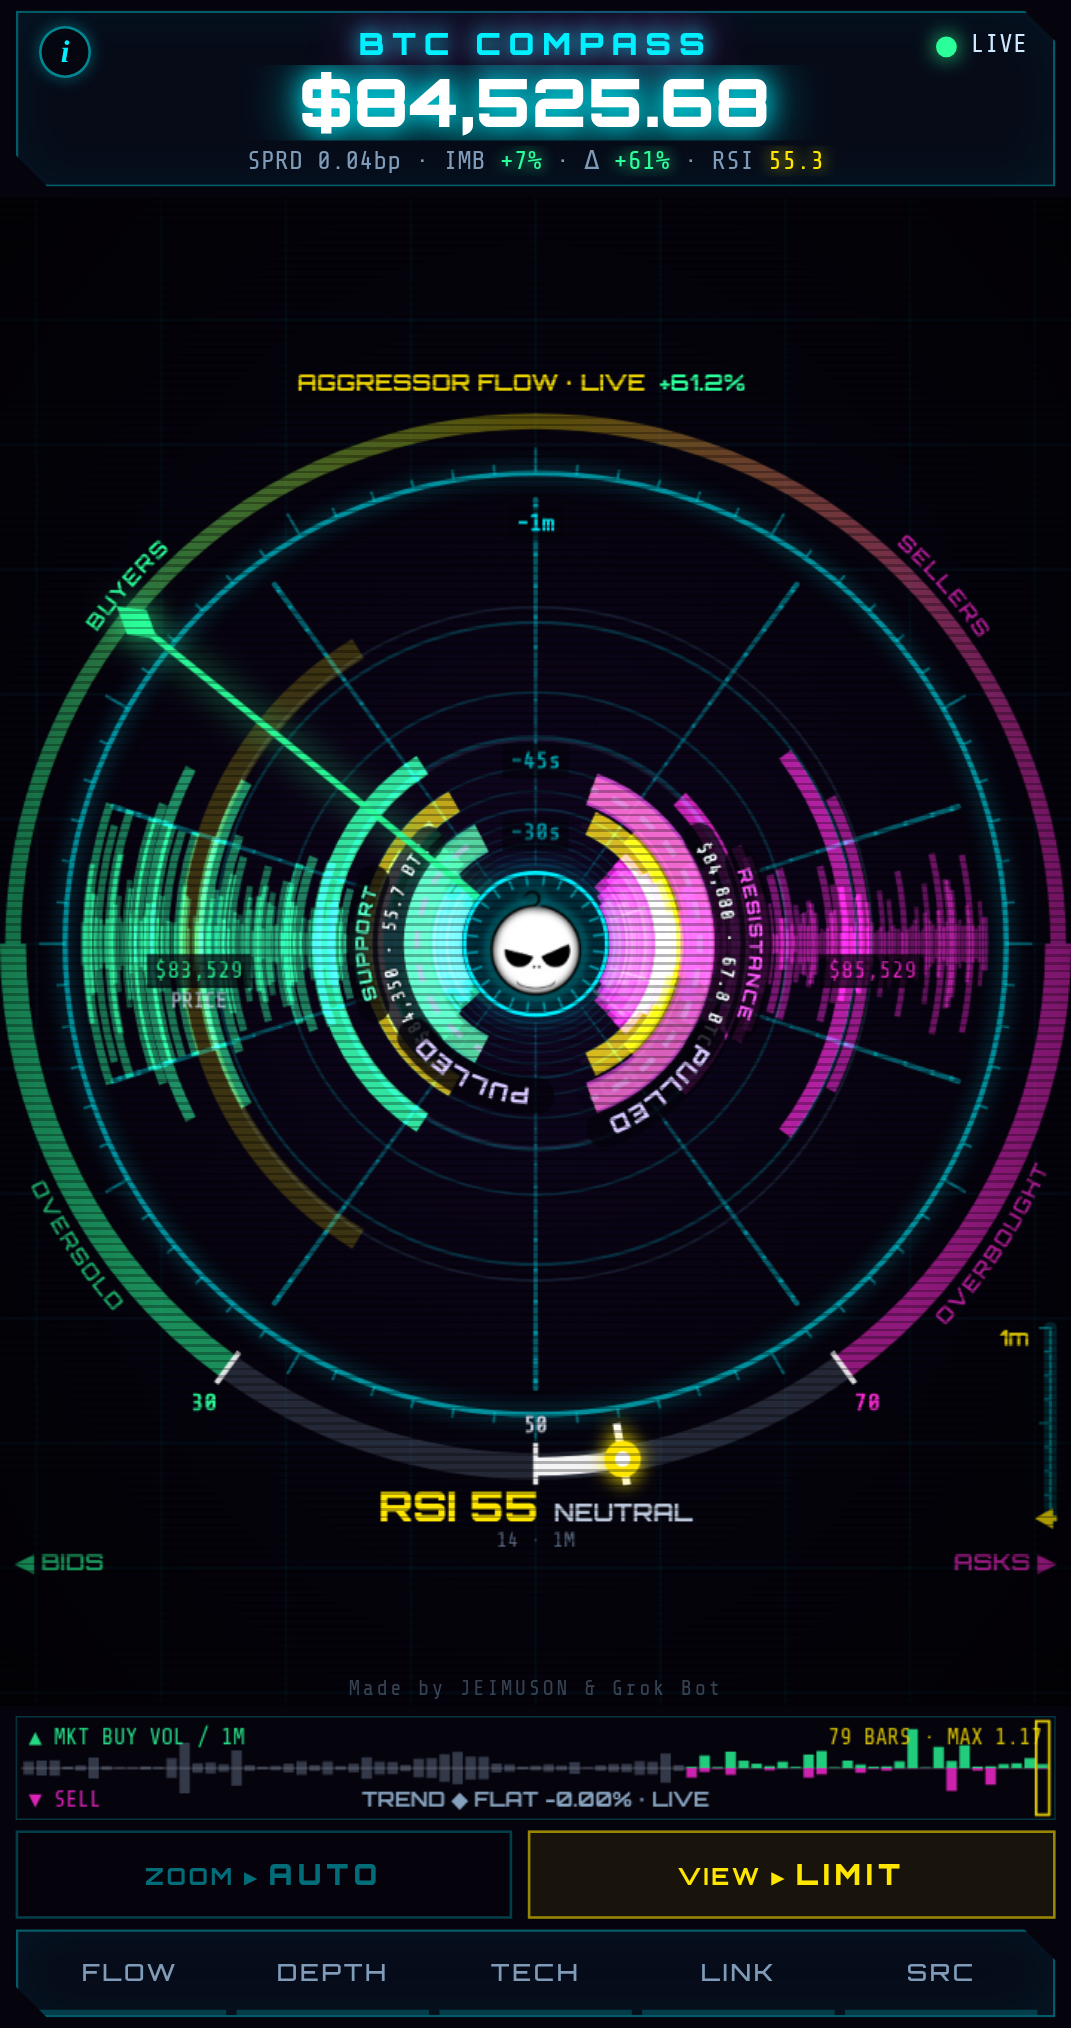
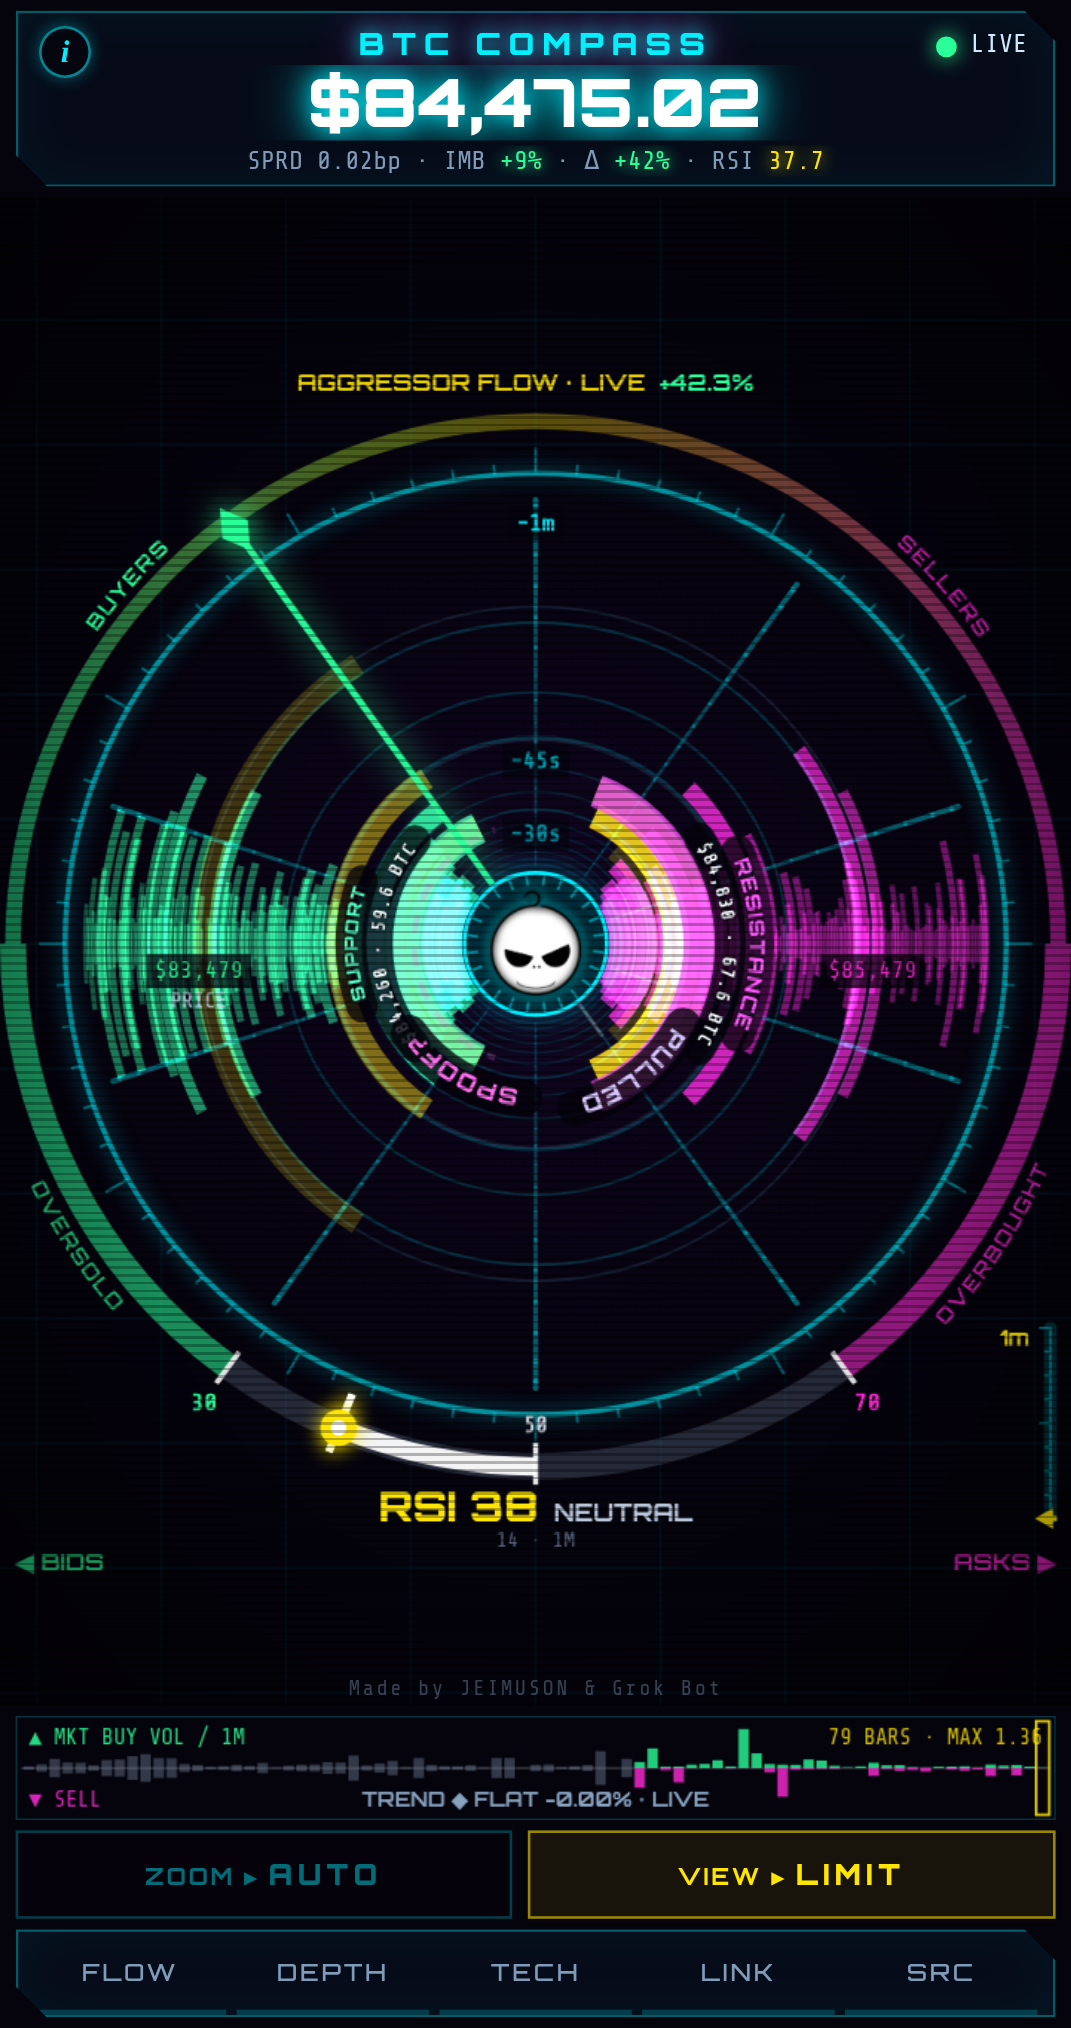
MARKET ghost walls: visible lines + edge chevrons (build 20261002-1911)

diff --git a/index.html b/index.html
@@ -3,7 +3,7 @@
 <head>
 <meta charset="utf-8">
 <meta http-equiv="Cache-Control" content="no-cache, no-store, must-revalidate"><meta http-equiv="Pragma" content="no-cache"><meta http-equiv="Expires" content="0">
-<script>window.OFC_BUILD='20261002-1852';(function(){try{if(!/^https?:/.test(location.protocol))return;fetch(location.pathname+'?_='+Date.now(),{cache:'no-store'}).then(r=>r.text()).then(t=>{const m=t.match(/OFC_BUILD='([^']+)'/);if(m&&m[1]!==window.OFC_BUILD&&sessionStorage.getItem('ofcB')!==m[1]){sessionStorage.setItem('ofcB',m[1]);location.replace(location.pathname+'?v='+m[1]+location.hash);}}).catch(()=>{});}catch(e){}})();</script>
+<script>window.OFC_BUILD='20261002-1911';(function(){try{if(!/^https?:/.test(location.protocol))return;fetch(location.pathname+'?_='+Date.now(),{cache:'no-store'}).then(r=>r.text()).then(t=>{const m=t.match(/OFC_BUILD='([^']+)'/);if(m&&m[1]!==window.OFC_BUILD&&sessionStorage.getItem('ofcB')!==m[1]){sessionStorage.setItem('ofcB',m[1]);location.replace(location.pathname+'?v='+m[1]+location.hash);}}).catch(()=>{});}catch(e){}})();</script>
 <meta name="viewport" content="width=device-width,initial-scale=1,viewport-fit=cover,user-scalable=no">
 <meta name="theme-color" content="#05030c">
 <meta name="color-scheme" content="dark">
@@ -165,7 +165,7 @@ body.hublogo #top .logo{display:none}   /* mobile: logo lives in the compass hub
  <li>Trail swings <b>out</b> = price up, <b>in</b> = price down.</li>
  <li><b class="gr">Green</b> = buyers, <b class="rd">red</b> = sellers. Thicker trail = more volume.</li>
  <li><b>Flares</b> mark the spots with the heaviest trading.</li>
- <li>Faint <b>ghost arcs</b> = the biggest limit walls, drawn where trades at their price would land. They flare when hit, flash when eaten, go dashed when pulled.</li></ul>
+ <li><b>Ghost walls</b> = the biggest limit walls: glowing lines where trades at their price would land, or edge chevrons (top = above, bottom = below, with % distance) when outside the scale. They flare when hit, flash when eaten, go dashed when pulled.</li></ul>
  <h3>LIMIT VIEW · ORDER-BOOK WALLS</h3>
  <ul><li>Arcs are <b>walls</b> of waiting orders: <b class="gr">buyers left</b>, <b class="rd">sellers right</b>.</li>
  <li>Distance from the middle = distance from the current price.</li>
@@ -1486,28 +1486,52 @@ function drawTrail(now){
   // Trades at the price -> flare; EATEN (classifier) -> short break flash; PULLED -> fades out as a dashed ghost.
   if(BREADY&&sortedB.length&&sortedA.length){const tN=performance.now(),dnow=Date.now(),tol=BUCK/2+mid*0.00002;let maxq=1e-9;for(const L of [sortedB,sortedA])for(const x of L)if(x[1]>maxq)maxq=x[1];
     const sT0=FOCAL/(FOCAL+TURN*DZ),L0=Math.max(2,0.55*RMAX*KO*(1-sT0)),vis=X=>Math.abs((X-P0)/BSP*RMAX*KO*0.22/L0),live=new Set(),dt=GWT?Math.min(0.1,(tN-GWT)/1000):0;GWT=tN;
-    for(const [side,lv] of [['bid',sortedB],['ask',sortedA]])for(const [px,q] of topBySize(lv,3)){if(q<0.25*maxq)continue;const k=side+'|'+px;live.add(k);
-      let G=GWS.get(k);if(!G){G={side,px,q,a:0,fl:0,br:-1e9,pull:-1e9,evT:tN};GWS.set(k,G);}G.q=q;}
+    // top 3 per side >= 25% of the biggest level; each side's biggest wall always kept so every side is represented
+    for(const [side,lv] of [['bid',sortedB],['ask',sortedA]])topBySize(lv,3).forEach(([px,q],i)=>{if(i>0&&q<0.25*maxq)return;const k=side+'|'+px;live.add(k);
+      let G=GWS.get(k);if(!G){G={side,px,q,a:0,fl:0,br:-1e9,pull:-1e9,evT:tN};GWS.set(k,G);}G.q=q;});
     for(const o of SPF.ev){if(o.kind!=='eaten'&&o.kind!=='pulled')continue;const G=GWS.get(o.side+'|'+o.px);if(G&&o.tt>G.evT){G.evT=o.tt;if(o.kind==='eaten')G.br=o.tt;else G.pull=o.tt;}}
-    const A2=Math.max(2,Math.min(AMAX,MWIN*0.5)),NC=8;
+    const A2=Math.max(2,Math.min(AMAX,MWIN*0.5)),NC=8,sc=Math.max(1,RMAX/380),EDG={bid:[],ask:[]};
     for(const [k,G] of GWS){const on=live.has(k),pulled=tN-G.pull<3000,brk=tN-G.br<800;
       G.a+=((on&&!pulled?1:0)-G.a)*(1-Math.exp(-dt/(on?0.5:pulled?1.2:0.35)));
       let hv=0;for(let i=trades.length-1;i>=0;i--){const t=trades[i];if(t.t<dnow-1200)break;if((G.side==='bid'?t.side==='sell':t.side==='buy')&&Math.abs(t.px-G.px)<=tol)hv+=t.qty;}
       const ft=Math.min(1,hv/(0.08*G.q+1e-9));G.fl+=(ft-G.fl)*(ft>G.fl?0.35:1-Math.exp(-dt/0.6));
       if(!on&&G.a<0.01&&!brk&&!pulled){GWS.delete(k);continue;}
-      const v=vis(G.px),va=Math.max(0,Math.min(1,(1.3-v)/0.3));G.v=v;G.A=0;if(va<=0)continue;
+      const v=vis(G.px),va=Math.max(0,Math.min(1,(1.3-v)/0.3));G.v=v;G.A=0;G.E=0;
       const rel=Math.sqrt(Math.min(1,G.q/maxq)),bu=brk?1-(tN-G.br)/800:0,c=G.side==='bid'?COL.bid:COL.ask;
-      const A=va*Math.max(G.a,pulled?Math.max(0,1-(tN-G.pull)/3000):0,bu);G.A=A;if(A<=0.01)continue;
+      const A0=Math.max(G.a,pulled?Math.max(0,1-(tN-G.pull)/3000):0,bu),pd=pulled&&!on;
+      const col=pd?[215,200,255]:brk?[Math.min(255,c[0]+110),Math.min(255,c[1]+110),Math.min(255,c[2]+110)]:c;
+      if(va<1&&A0>0.01)EDG[(G.px>=P0)?'ask':'bid'].push({G,A:A0*(1-va),rel,bu,pd,col,c});   // outside the scale -> clamped edge chevron
+      const A=va*A0;G.A=A;if(A<=0.01)continue;
       const pts=[];for(let f=0;f<=A2+1e-6;f+=0.5)pts.push([f,pt(f,G.px)]);
       ctx.save();ctx.lineCap='round';
-      if(pulled&&!on){ctx.setLineDash([6,6]);ctx.lineDashOffset=-tN/45;}else if(brk){ctx.setLineDash([10*(1-bu)+3,7+12*(1-bu)]);}
-      const col=pulled&&!on?[215,200,255]:brk?[Math.min(255,c[0]+110),Math.min(255,c[1]+110),Math.min(255,c[2]+110)]:c;
-      ctx.lineWidth=(1+3*rel+4*G.fl+6*bu)*Math.max(0.8,RMAX/400);
-      if(Q>0&&(G.fl>0.15||bu>0)){ctx.shadowColor=rgba(c,1);ctx.shadowBlur=10+18*Math.max(G.fl,bu);}
-      for(let ci=0;ci<NC;ci++){const i0=Math.floor(ci*(pts.length-1)/NC),i1=Math.floor((ci+1)*(pts.length-1)/NC);if(i1<=i0)continue;const fm=pts[(i0+i1)>>1][0],um=pts[(i0+i1)>>1][1].u;
-        const al=A*(0.09+0.13*rel+0.5*G.fl+0.6*bu)*Math.pow(um,0.8)*Math.pow(Math.max(0,1-fm/A2),0.7);if(al<=0.004)continue;
-        ctx.strokeStyle=rgba(col,Math.min(0.9,al).toFixed(3));ctx.beginPath();ctx.moveTo(pts[i0][1].x,pts[i0][1].y);for(let i=i0+1;i<=i1;i++)ctx.lineTo(pts[i][1].x,pts[i][1].y);ctx.stroke();}
+      if(pd){ctx.setLineDash([6*sc,6*sc]);ctx.lineDashOffset=-tN/45;}else if(brk){ctx.setLineDash([10*(1-bu)+3,7+12*(1-bu)]);}
+      const lw=Math.max(2,(1.5+3*rel+4*G.fl+6*bu)*sc);
+      for(const [wm,am,gl] of [[3.2,0.22,0],[1,1,1]]){ctx.lineWidth=lw*wm;   // soft glow band, then the core line
+        if(gl&&Q>0){ctx.shadowColor=rgba(c,0.9);ctx.shadowBlur=(6+18*Math.max(G.fl,bu))*sc;}
+        for(let ci=0;ci<NC;ci++){const i0=Math.floor(ci*(pts.length-1)/NC),i1=Math.floor((ci+1)*(pts.length-1)/NC);if(i1<=i0)continue;const fm=pts[(i0+i1)>>1][0],um=pts[(i0+i1)>>1][1].u;
+          const al=am*A*(0.3+0.3*rel+0.45*G.fl+0.6*bu)*Math.pow(um,0.5)*Math.pow(Math.max(0,1-fm/A2),0.45);if(al<=0.004)continue;
+          ctx.strokeStyle=rgba(col,Math.min(0.95,al).toFixed(3));ctx.beginPath();ctx.moveTo(pts[i0][1].x,pts[i0][1].y);for(let i=i0+1;i<=i1;i++)ctx.lineTo(pts[i][1].x,pts[i][1].y);ctx.stroke();}}
+      {const ti=Math.min(pts.length-1,Math.max(1,Math.round(pts.length*0.18))),p=pts[ti][1];   // small size tag on the line
+        ctx.setLineDash([]);ctx.shadowBlur=0;ctx.font=`${Math.round(9*sc)}px "Share Tech Mono",monospace`;ctx.textAlign='center';ctx.textBaseline='middle';
+        ctx.fillStyle=rgba(col,Math.min(0.85,A*(0.55+0.3*rel+0.3*G.fl)).toFixed(3));ctx.fillText(fmtUSD(G.q*G.px),p.x,p.y-8*sc);}
       ctx.restore();}
+    // clamped edge indicators: walls beyond the scale sit as glowing chevrons just inside the outer ring,
+    // asks/above-price at the top edge (right of NOW), bids/below-price at the bottom edge; nearest first; brightness falls with distance
+    for(const sd of ['ask','bid']){const L=EDG[sd].sort((a,b)=>Math.abs(a.G.px-P0)-Math.abs(b.G.px-P0)),up=sd==='ask',step=Math.max(0.075,28/RMAX),a0=Math.max(0.16,36/RMAX);
+      L.forEach((o,k)=>{const {G,rel,bu,pd,col,c}=o,d=(G.px-P0)/P0*100,ad=Math.abs(d),fall=0.5+0.5*Math.exp(-ad/0.8);
+        const al=Math.min(1,o.A*(0.55+0.35*rel+0.5*G.fl+0.6*bu)*fall*(k===0?1:0.8));G.E=+al.toFixed(2);if(al<0.02)return;
+        const th=up?-Math.PI/2+a0+step*k:Math.PI/2+a0+step*k,nx=Math.cos(th),ny=Math.sin(th),tx=-ny,ty=nx,r=RMAX*0.95,cx=CX+nx*r,cy=CY+ny*r;
+        const sz=(5+5*rel+4*G.fl+5*bu)*sc;
+        ctx.save();if(Q>0){ctx.shadowColor=rgba(c,0.95);ctx.shadowBlur=(8+16*Math.max(G.fl,bu))*sc;}
+        const P=(a,b)=>[cx+nx*a+tx*b,cy+ny*a+ty*b],T=P(sz,0),W1=P(-sz*0.45,sz*0.95),N=P(-sz*0.05,0),W2=P(-sz*0.45,-sz*0.95);
+        const path=()=>{ctx.beginPath();ctx.moveTo(...T);ctx.lineTo(...W1);ctx.lineTo(...N);ctx.lineTo(...W2);ctx.closePath();};
+        if(pd){ctx.setLineDash([3*sc,3*sc]);ctx.lineWidth=1.4*sc;ctx.strokeStyle=rgba(col,al.toFixed(3));path();ctx.stroke();}
+        else{ctx.fillStyle=rgba(col,(al*0.85).toFixed(3));path();ctx.fill();ctx.lineWidth=1*sc;ctx.strokeStyle=rgba([Math.min(255,col[0]+70),Math.min(255,col[1]+70),Math.min(255,col[2]+70)],al.toFixed(3));ctx.stroke();}
+        if(bu>0){ctx.lineWidth=2*sc;ctx.strokeStyle=rgba([255,255,255],(bu*0.8).toFixed(3));ctx.beginPath();ctx.arc(cx,cy,sz*(1.2+1.6*(1-bu)),0,Math.PI*2);ctx.stroke();}
+        if(k===0||RMAX>250){ctx.shadowBlur=0;ctx.font=`${Math.round(9*sc)}px "Share Tech Mono",monospace`;ctx.textAlign='center';ctx.textBaseline='middle';
+          const txt=(d>=0?'+':'\u2212')+ad.toFixed(ad<1?2:1)+'%'+(RMAX>250?' '+fmtUSD(G.q*G.px):''),tp=P(-(5+5*rel)*sc-9*sc-k*11*sc,0);
+          ctx.fillStyle=rgba(col,Math.min(0.95,al+0.1).toFixed(3));ctx.fillText(txt,tp[0],tp[1]);}
+        ctx.restore();});}
   }
   // centreline spine: thin continuous track that fades into the vanishing point
   ctx.lineWidth=1;
@@ -1740,7 +1764,7 @@ function frame(){
 connect();seedREST();
 requestAnimationFrame(frame);
 document.addEventListener('visibilitychange',()=>{if(!document.hidden&&(!ws||ws.readyState>1)){backoff=1000;connect();}});
-window.__ofc={get gw(){return [...GWS.values()].map(G=>({s:G.side,px:G.px,a:+G.a.toFixed(2),fl:+G.fl.toFixed(2),br:performance.now()-G.br<800,pull:performance.now()-G.pull<3000,v:+(G.v||0).toFixed(2),A:+(G.A||0).toFixed(2)}))},simEat(ms,kind,hold,px){EAT={t0:Date.now(),ms,kind:kind||'eat',hold:hold==null?0:hold,px:px||0,q0:0,lq:null};},get spoof(){return {n:{...SPF.n},trk:SPF.trk.size,ev:SPF.ev.slice(-6).map(o=>({k:o.kind,s:o.side,px:o.px,q0:+o.q0.toFixed(1),q1:+o.q1.toFixed(1),ratio:o.ratio,spoof:o.spoof,big:o.big,ven:o.ven}))}},get eat(){const n=performance.now();return EAT&&{px:EAT.px,q0:EAT.q0,ref:REFQ,cp:history.filter((h,i)=>i%8===0&&(n-h.t)/1000<=LWIN).map(h=>{const e=h.b.find(x=>x[0]===EAT.px);return e?[Math.round((n-h.t)/1000),+levelSpan(e[1],REFQ||h.maxq).toFixed(3)]:null;}).filter(Boolean)}},get mt(){return {w:+MT.w.toFixed(1),q:+MT.q.toFixed(2),z:+MT.z.toFixed(2),sg:MT.sg,burst:burst.on}},get lt(){return {w:+LT.w.toFixed(1),rho:+LT.rho.toFixed(2),lwin:+LWIN.toFixed(1),burst:burst.on}},get keyWalls(){return VIEW==='limit'?{...KEYW,nSig:{bid:topWalls.bid.length,ask:topWalls.ask.length},marks:PLBL.map(q=>q.txt)}:null},simFlat(){SIM={on:true,base:mid,t0:0,dir:0,amp:0,ramp:1};},simMove(dir,frac,ramp){SIM.t0=Date.now();SIM.dir=dir;SIM.amp=frac*SIM.base;SIM.ramp=ramp;},get resp(){const v=proj(HIST_SEC),m=proj(HIST_SEC*0.4);return {tw:+(TWIST_MAX*VSP.w*180/Math.PI).toFixed(2),vp:+(v.y-CY).toFixed(1),vm:+(m.y-CY).toFixed(1),o3:+((window.__ofcR||{}).o3||0).toFixed(1),o8:+((window.__ofcR||{}).o8||0).toFixed(1),mw:+MWIN.toFixed(1),dr:dispRange,pr:pathRef}},get bp(){return BP.length},autoOff(){pillT=0;if(rangeAuto)pillTap();},get dr(){return dispRange},get hubLogo(){return !WIDE&&LOGO.complete&&LOGO.naturalWidth>0},get hdrLogo(){const e=document.querySelector('#top .logo');return !!e&&getComputedStyle(e).display!=='none'},get flares(){return VIEW==='market'?[...FLR.entries()].map(([k,F])=>{const p=F.dx!=null?{x:F.dx,y:F.dy}:null;return {k,T:F.T,tT:trailT,st:trailStep,w:+F.w.toFixed(2),on:!!F.on,side:F.c===COL.bid?'bid':'ask',x:p?Math.round(p.x):null,y:p?Math.round(p.y):null};}):null},winTo(S){intro=null;setAuto(false);syncZA();let lo=0,hi=1;const f=u=>mWinOf(zR(u));const dec=f(0)>f(1);for(let i=0;i<40;i++){const m=(lo+hi)/2;if((f(m)>S)===dec)lo=m;else hi=m;}rangeFrac=zR((lo+hi)/2);return f((lo+hi)/2);},get vring(){if(VIEW!=='market')return null;const p=proj(HIST_SEC);return {full:+(RMAX*p.s).toFixed(1),r:+(RMAX*p.s).toFixed(1),x:Math.round(p.x),y:Math.round(p.y),R0:Math.round(R0)}},get twist(){return VIEW==='market'?+(TWIST_MAX*VSP.w*180/Math.PI).toFixed(1):0},get spin(){return {w:+VSP.w.toFixed(3),ph:+VSP.ph.toFixed(3)}},zManual(){intro=null;setAuto(false);syncZA();},get burst(){return {...burst,now:Date.now()}},simBurst(usd){const px=trades.length?trades[trades.length-1].px:mid,n=Date.now();for(let k=0;k<8;k++)trades.push({t:n-(7-k)*300,side:k%2?'sell':'buy',qty:usd/8/px,px,v:'kraken'});trailDirty=true;},get auto(){return rangeAuto},zAuto(){intro=null;setAuto(true);syncZA();},zIn(){intro=null;setAuto(false);rangeFrac=zR(1);syncZA();},get mwin(){return +MWIN.toFixed(1)},get lwin(){return +LWIN.toFixed(1)},get prange(){return PRANGE},get disp(){return dispRange},get plbl(){return PLBL.map(q=>q.txt)},get hubTxt(){return mid?hubTxt():null},get head(){return {x:Math.round(TRHEAD.x),y:Math.round(TRHEAD.y),CX,CY,R0:Math.round(R0),RMAX:Math.round(RMAX)}},get logo(){const g=logoGeom();return g&&{x:Math.round(g.x),y:Math.round(g.y),S:g.S,CX,CY,RMAX,W,H,Z:zbarGeom()}},get ven(){return Object.fromEntries(Object.entries(VEN).map(([k,v])=>[k,{st:v.st,share:+v.share.toFixed(3),books:BOOKS.filter(B=>B.v===k).map(B=>({k:B.k,ready:B.ready,n:B.b.size+B.a.size,ck:B.ckOk,ckBad:B.ckBad,resyncs:B.resyncs}))}]))},get src(){return SRC},setSource,get comb(){return {ready:BREADY,mid,bestBid,bestAsk,nb:sortedB.length,na:sortedA.length}},get raw(){return RAW.length},get flow(){const f=flow(30);return {b:Math.round(f.b),s:Math.round(f.s),r:+f.r.toFixed(3)}},get trendW(){return trendWin()},get win(){return winSec},get heatN(){return Object.fromEntries(Object.entries(HEATS).map(([w,H])=>[w,H.m.size]))},get intro(){return intro},book,get mid(){return mid},get ck(){return {ckOk,ckBad,ckLast}},get trades(){return tradeCount},get bubbles(){return bubbles.length},get hist(){return history.length},get ind(){return ind},get candles(){return candles.size},get dir(){return INBOUND?'in':'out'},get view(){return VIEW},get layout(){return {W,H,CX,CY,RMAX,R0,WIDE}},get tunnel(){const far=proj(HIST_SEC);return {FOCAL,farScale:far.s,farY:far.y-CY,dispRange,fitFrac,rangeAuto,RMAX}},zoom(f){setAuto(false);rangeFrac=Math.min(0.08,Math.max(0.0005,rangeFrac*f));},autoZoom(){setAuto(true);},get autoOn(){return rangeAuto},get zgeom(){return zbarGeom()},get conn(){return connState},get fps(){return FPS},get q(){return Q},get rc(){return reconnects},forceDrop(){ws&&ws.close();}};
+window.__ofc={get gw(){return [...GWS.values()].map(G=>({s:G.side,px:G.px,a:+G.a.toFixed(2),fl:+G.fl.toFixed(2),br:performance.now()-G.br<800,pull:performance.now()-G.pull<3000,v:+(G.v||0).toFixed(2),A:+(G.A||0).toFixed(2),E:G.E||0}))},simEat(ms,kind,hold,px){EAT={t0:Date.now(),ms,kind:kind||'eat',hold:hold==null?0:hold,px:px||0,q0:0,lq:null};},get spoof(){return {n:{...SPF.n},trk:SPF.trk.size,ev:SPF.ev.slice(-6).map(o=>({k:o.kind,s:o.side,px:o.px,q0:+o.q0.toFixed(1),q1:+o.q1.toFixed(1),ratio:o.ratio,spoof:o.spoof,big:o.big,ven:o.ven}))}},get eat(){const n=performance.now();return EAT&&{px:EAT.px,q0:EAT.q0,ref:REFQ,cp:history.filter((h,i)=>i%8===0&&(n-h.t)/1000<=LWIN).map(h=>{const e=h.b.find(x=>x[0]===EAT.px);return e?[Math.round((n-h.t)/1000),+levelSpan(e[1],REFQ||h.maxq).toFixed(3)]:null;}).filter(Boolean)}},get mt(){return {w:+MT.w.toFixed(1),q:+MT.q.toFixed(2),z:+MT.z.toFixed(2),sg:MT.sg,burst:burst.on}},get lt(){return {w:+LT.w.toFixed(1),rho:+LT.rho.toFixed(2),lwin:+LWIN.toFixed(1),burst:burst.on}},get keyWalls(){return VIEW==='limit'?{...KEYW,nSig:{bid:topWalls.bid.length,ask:topWalls.ask.length},marks:PLBL.map(q=>q.txt)}:null},simFlat(){SIM={on:true,base:mid,t0:0,dir:0,amp:0,ramp:1};},simMove(dir,frac,ramp){SIM.t0=Date.now();SIM.dir=dir;SIM.amp=frac*SIM.base;SIM.ramp=ramp;},get resp(){const v=proj(HIST_SEC),m=proj(HIST_SEC*0.4);return {tw:+(TWIST_MAX*VSP.w*180/Math.PI).toFixed(2),vp:+(v.y-CY).toFixed(1),vm:+(m.y-CY).toFixed(1),o3:+((window.__ofcR||{}).o3||0).toFixed(1),o8:+((window.__ofcR||{}).o8||0).toFixed(1),mw:+MWIN.toFixed(1),dr:dispRange,pr:pathRef}},get bp(){return BP.length},autoOff(){pillT=0;if(rangeAuto)pillTap();},get dr(){return dispRange},get hubLogo(){return !WIDE&&LOGO.complete&&LOGO.naturalWidth>0},get hdrLogo(){const e=document.querySelector('#top .logo');return !!e&&getComputedStyle(e).display!=='none'},get flares(){return VIEW==='market'?[...FLR.entries()].map(([k,F])=>{const p=F.dx!=null?{x:F.dx,y:F.dy}:null;return {k,T:F.T,tT:trailT,st:trailStep,w:+F.w.toFixed(2),on:!!F.on,side:F.c===COL.bid?'bid':'ask',x:p?Math.round(p.x):null,y:p?Math.round(p.y):null};}):null},winTo(S){intro=null;setAuto(false);syncZA();let lo=0,hi=1;const f=u=>mWinOf(zR(u));const dec=f(0)>f(1);for(let i=0;i<40;i++){const m=(lo+hi)/2;if((f(m)>S)===dec)lo=m;else hi=m;}rangeFrac=zR((lo+hi)/2);return f((lo+hi)/2);},get vring(){if(VIEW!=='market')return null;const p=proj(HIST_SEC);return {full:+(RMAX*p.s).toFixed(1),r:+(RMAX*p.s).toFixed(1),x:Math.round(p.x),y:Math.round(p.y),R0:Math.round(R0)}},get twist(){return VIEW==='market'?+(TWIST_MAX*VSP.w*180/Math.PI).toFixed(1):0},get spin(){return {w:+VSP.w.toFixed(3),ph:+VSP.ph.toFixed(3)}},zManual(){intro=null;setAuto(false);syncZA();},get burst(){return {...burst,now:Date.now()}},simBurst(usd){const px=trades.length?trades[trades.length-1].px:mid,n=Date.now();for(let k=0;k<8;k++)trades.push({t:n-(7-k)*300,side:k%2?'sell':'buy',qty:usd/8/px,px,v:'kraken'});trailDirty=true;},get auto(){return rangeAuto},zAuto(){intro=null;setAuto(true);syncZA();},zIn(){intro=null;setAuto(false);rangeFrac=zR(1);syncZA();},get mwin(){return +MWIN.toFixed(1)},get lwin(){return +LWIN.toFixed(1)},get prange(){return PRANGE},get disp(){return dispRange},get plbl(){return PLBL.map(q=>q.txt)},get hubTxt(){return mid?hubTxt():null},get head(){return {x:Math.round(TRHEAD.x),y:Math.round(TRHEAD.y),CX,CY,R0:Math.round(R0),RMAX:Math.round(RMAX)}},get logo(){const g=logoGeom();return g&&{x:Math.round(g.x),y:Math.round(g.y),S:g.S,CX,CY,RMAX,W,H,Z:zbarGeom()}},get ven(){return Object.fromEntries(Object.entries(VEN).map(([k,v])=>[k,{st:v.st,share:+v.share.toFixed(3),books:BOOKS.filter(B=>B.v===k).map(B=>({k:B.k,ready:B.ready,n:B.b.size+B.a.size,ck:B.ckOk,ckBad:B.ckBad,resyncs:B.resyncs}))}]))},get src(){return SRC},setSource,get comb(){return {ready:BREADY,mid,bestBid,bestAsk,nb:sortedB.length,na:sortedA.length}},get raw(){return RAW.length},get flow(){const f=flow(30);return {b:Math.round(f.b),s:Math.round(f.s),r:+f.r.toFixed(3)}},get trendW(){return trendWin()},get win(){return winSec},get heatN(){return Object.fromEntries(Object.entries(HEATS).map(([w,H])=>[w,H.m.size]))},get intro(){return intro},book,get mid(){return mid},get ck(){return {ckOk,ckBad,ckLast}},get trades(){return tradeCount},get bubbles(){return bubbles.length},get hist(){return history.length},get ind(){return ind},get candles(){return candles.size},get dir(){return INBOUND?'in':'out'},get view(){return VIEW},get layout(){return {W,H,CX,CY,RMAX,R0,WIDE}},get tunnel(){const far=proj(HIST_SEC);return {FOCAL,farScale:far.s,farY:far.y-CY,dispRange,fitFrac,rangeAuto,RMAX}},zoom(f){setAuto(false);rangeFrac=Math.min(0.08,Math.max(0.0005,rangeFrac*f));},autoZoom(){setAuto(true);},get autoOn(){return rangeAuto},get zgeom(){return zbarGeom()},get conn(){return connState},get fps(){return FPS},get q(){return Q},get rc(){return reconnects},forceDrop(){ws&&ws.close();}};
 })();
 // ---------------- INFO overlay: what am I looking at? (✕ / tap outside / Esc) ----------------
 (function(){const I=document.getElementById('info'),B=document.getElementById('infoBtn');if(!I||!B)return;
